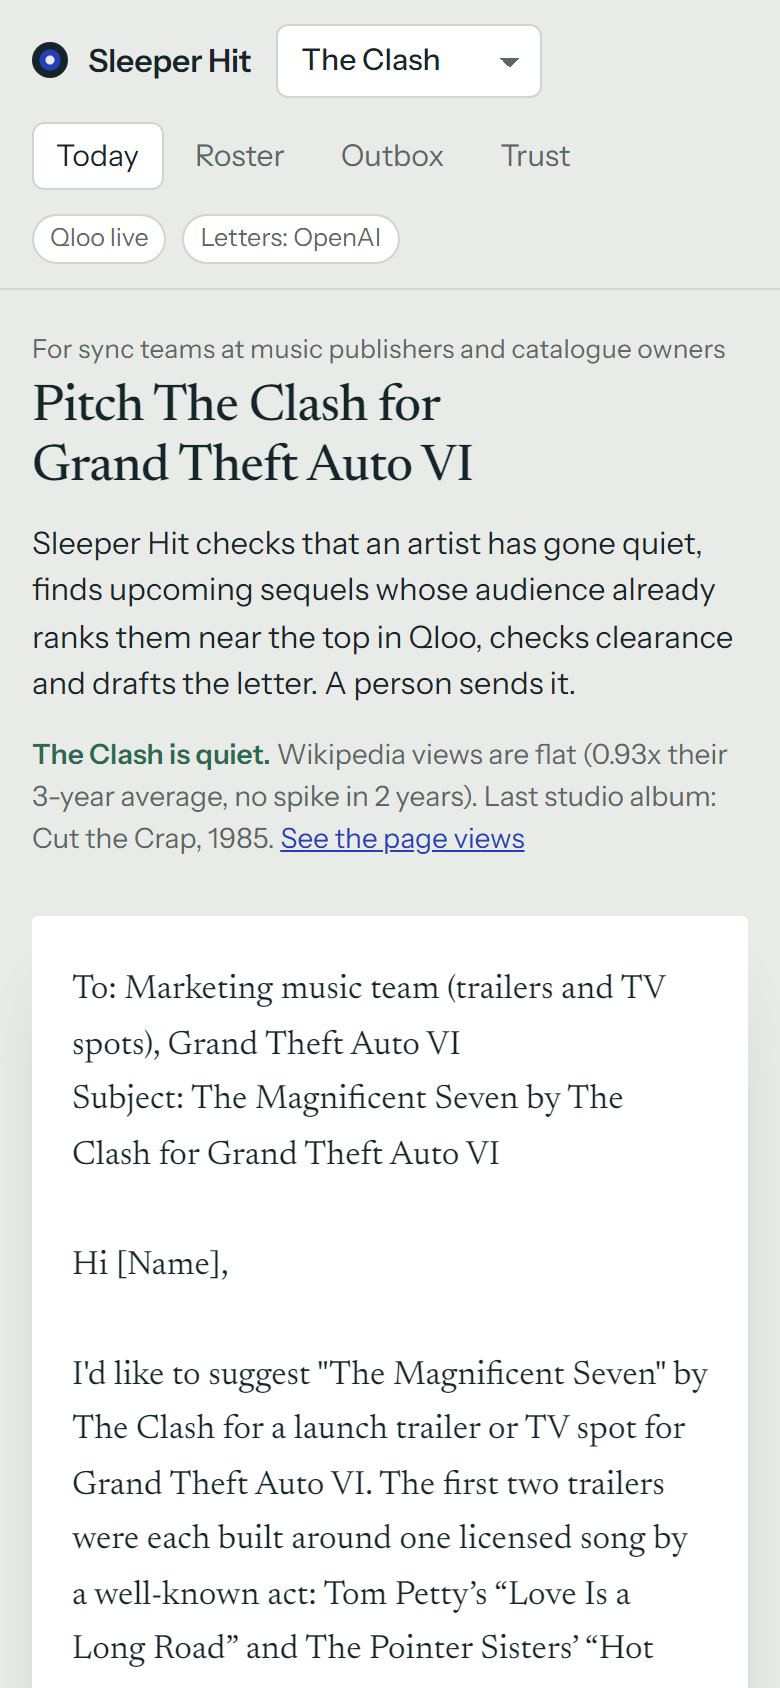
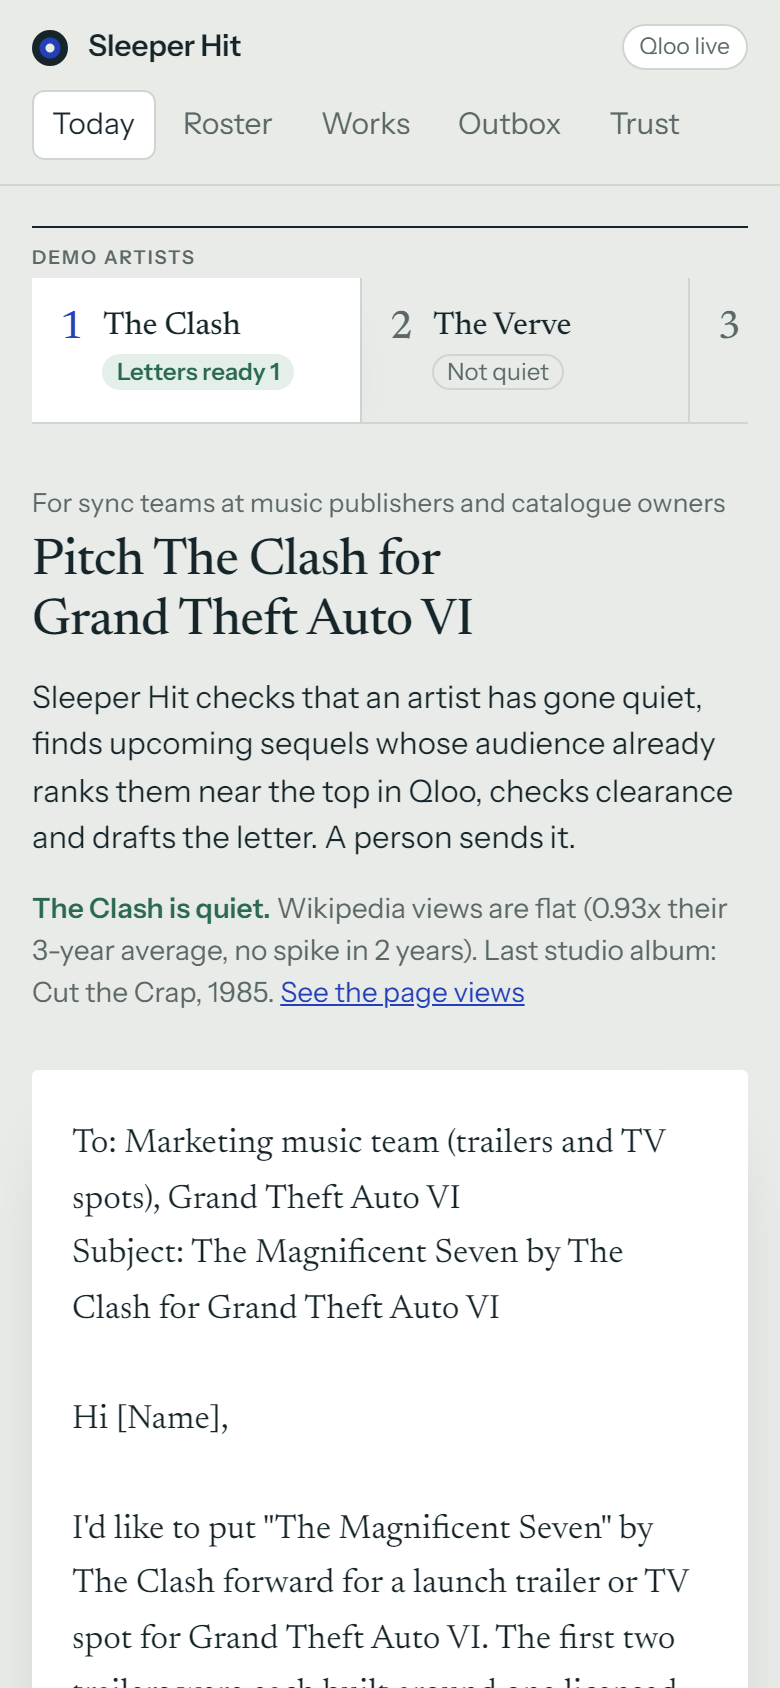
Screenshots and thumbnail retaken from the live app after the seal
All eight in docs/screenshots/ (first screen with the artist strip,
Roster, The Verve refused, Outbox, Trust, phone, Works, Works on phone)
and the Devpost thumbnail, taken Oct 29 from sleeper-hit.onrender.com.

diff --git a/README.md b/README.md
@@ -14,7 +14,7 @@ Built for the Qloo Agentic Hackathon 2026.
 
 ![First screen: today's pitch letter for The Clash, with the evidence card](docs/screenshots/1-first-screen.png)
 
-More in `docs/screenshots/`: Roster, a refused artist, the outbox, Trust and phone width (taken from the live app on Oct 26), and Works on desktop and phone (`7-works.png`, `8-works-phone.png`, taken from a local run with live Qloo data on Oct 28).
+More in `docs/screenshots/`, all taken from the live app on Oct 29: Roster, a refused artist (The Verve), the outbox, Trust, phone width, and Works on desktop and phone (`7-works.png`, `8-works-phone.png`).
 
 ## The problem
 
